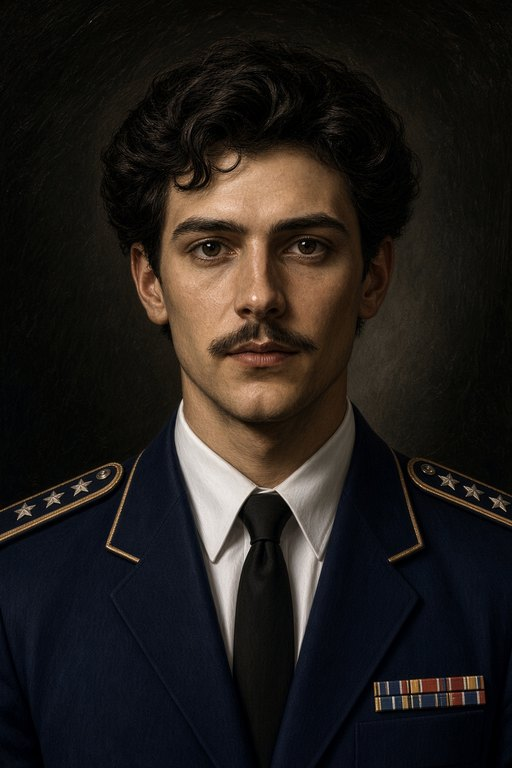
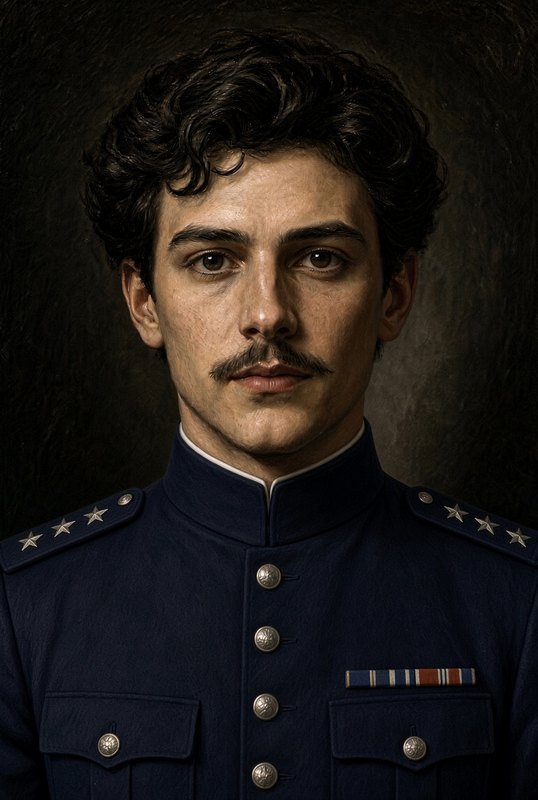
G01 Dienst Ränge + Schirm/Mütze

diff --git a/Division_Command_0.32c/web/js/ui/portraits.js b/Division_Command_0.32c/web/js/ui/portraits.js
@@ -272,7 +272,9 @@
     'f16-nacht-none': 'lt',
     'f16-luft-none': 'lt',
     'f16-burgund-none': 'lt',
-    'f16-sand-none': 'lt'
+    'f16-sand-none': 'lt',
+    'f01-dienst-schirm': 'lt',
+    'f01-dienst-mutze': 'lt'
   };
 
   function rankMeta(rank) {
